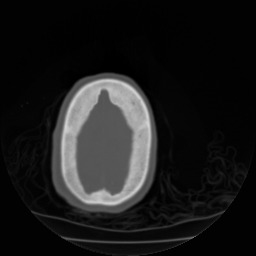
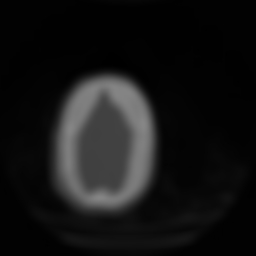
Gauss and sobel test classes

diff --git a/src/imaging/Image.cpp b/src/imaging/Image.cpp
@@ -9,7 +9,8 @@
 
 bool Image::read(const char* filename, int channel_force) {
     int ch = (int)channels;
-	data = stbi_load(filename, &w, &h, &ch, channel_force);
+	size = w * h * ch;
+    data.reset(stbi_load(filename, &w, &h, &ch, channel_force));
 	channels = channel_force == 0 ? channels : channel_force;
 	return data != NULL;
 }
@@ -18,16 +19,16 @@ bool Image::write(const char* filename, ImageType type) {
 	int success;
     switch (type) {
         case ImageType::PNG:
-        success = stbi_write_png(filename, w, h, channels, data, w*channels);
+        success = stbi_write_png(filename, w, h, channels, data.get(), w*channels);
         break;
         case ImageType::BMP:
-        success = stbi_write_bmp(filename, w, h, channels, data);
+        success = stbi_write_bmp(filename, w, h, channels, data.get());
         break;
         case ImageType::JPG:
-        success = stbi_write_jpg(filename, w, h, channels, data, 100);
+        success = stbi_write_jpg(filename, w, h, channels, data.get(), 100);
         break;
         case ImageType::TGA:
-        success = stbi_write_tga(filename, w, h, channels, data);
+        success = stbi_write_tga(filename, w, h, channels, data.get());
         break;
     }
     if(success != 0) {
@@ -151,7 +152,7 @@ const Image& Image::sobel(){
     gy.write("../src/try_y.jpg", ImageType::JPG);*/
     //compute the gradient
     for(size_t i = 0; i < size; i++)
-        data[i] = std::hypot(gx.getData()[i], gy.getData()[i]) / 8.0;
+        data[i] = std::hypot(gx.data[i], gy.data[i]) / 8.0;
 
     return *this;
 
@@ -191,49 +192,6 @@ const void Image::anisotropic_diffusion(Image& dst, int num_iterations, float k)
     }
 
 }
-
-
-const void Image::anisotropic_diffusion(const Image& dest, const double dt, const int lambda, const int interations) const  {
-    //Make temp image
-    Image temp(*this);
-    //temp.sobel();
-    //Precalculate tables (for speed up)
-    double* precal = new double[255];
-    double lambda2 = lambda * lambda;
-    for (int f = 0; f < 255; f++) {
-        precal[f] = -dt * f * lambda2 / (lambda2 + f * f);
-    }
-
-    //Apply the filter
-    for(int ch = 0; ch <= channels; ch++){
-        for (int n = 0; n < interations; n++)
-        {
-        
-            for (int i = 0; i < h; i++)
-                for (int j = 0; j < w; j++) {
-                    
-                    const double current =  temp.data[(i * getWidth() + j) * channels + ch];
-
-                    const int px = (j - 1) < 0 ? 0 : ( j - 1);
-                    const int nx = (j + 1) >= j ? j - 1 : j + 1;
-                    const int py = (i - 1) < 0 ? 0 : i - 1;
-                    const int ny = (i + 1) >= i ? i - 1: i + 1;
-
-                    dest.data[(i * getWidth() + j) * channels + ch] = uint8_t
-                                        ((precal[(int)(current - temp.data[(i * getWidth() + px) * channels + ch])] +
-                                        precal[(int)(current - temp.data[(i * getWidth() + nx) * channels + ch])] +
-                                        precal[(int)(current - temp.data[(py * getWidth() + j) * channels + ch])]  +
-                                        precal[(int)(current - temp.data[(ny * getWidth() + j) * channels + ch])] )+
-                                        temp.data[(i * getWidth() + j) * channels + ch]);
-
-                }
-            }
-    }
-
-    delete[] precal;
-}
-
-
 
 void Image::merge_2d(const std::vector<Image> &images) {
     const int img_size = images.size();

diff --git a/src/imaging/Image.hpp b/src/imaging/Image.hpp
@@ -13,7 +13,7 @@
 #include "../traits/Filtering_traits.hpp"
 #include "../solvers/Ctz.hpp"
 #include "../solvers/MDFFT.hpp"
-
+#include <memory>
 
 enum class ImageType {
     PNG, JPG, BMP, TGA
@@ -31,37 +31,36 @@ class Image {
 
         Image(int w_, int h_, int channels_) : w(w_), h(h_), channels(channels_){
             size = w * h * channels;
-            data = new uint8_t[size];
+            data = std::make_unique<uint8_t[]>(size);
         }
 
-        Image& operator=(const Image& other)  {
+        Image(const Image& img) : w(img.getWidth()), h(img.getHeight()), channels(img.getChannels()), size(img.getSize()), data(std::make_unique<uint8_t[]>(img.getSize())) {
+            std::copy_n(img.data.get(), img.getSize(), data.get());
+        }
+
+        Image& operator=(const Image& other) {
             if (this == &other) return *this;
-            //if(data) delete[] data;
-            size = other.getSize();
-            data = new uint8_t[size];
+            data = std::make_unique<uint8_t[]>(other.getSize());
             w = other.getWidth();
-            h = other.getHeight(); 
+            h = other.getHeight();
             channels = other.getChannels();
-            
-            std::copy(other.getData(), other.getData() + other.getSize(), data);
+            size = other.getSize();
+            std::copy_n(other.data.get(), other.getSize(), data.get());
             return *this;
         }
 
-        Image(const Image& img)  {
-            *this = img;
-        }
-
-        ~Image() {
-            if(data) delete[] data;
-           // data = NULL;
-        }
+        /*~Image() {
+            if (data) {
+                stbi_image_free(data.get());
+            }
+        }*/
 
 
         bool read(const char* filename, int channel_force = 0);
         bool write(const char* filename, ImageType type);
         
         inline const size_t getSize() const {return size; };
-        inline uint8_t* getData() const {return data;};
+        
 
         inline const  int getWidth() const  {return w;} ;
         inline const int getHeight() const {return h;};
@@ -75,8 +74,7 @@ class Image {
 
         const Image& sobel();
 
-        //const void anisotropic_diffusion(Image& dst, int num_iterations, float k) const;
-        const void anisotropic_diffusion(const Image& dest, const double dt, const int lambda, const int interations) const ;
+        
         const void anisotropic_diffusion(Image& dst, int num_iterations, float k) const;
 
         void merge_2d(const std::vector<Image> &images);
@@ -88,9 +86,9 @@ class Image {
 
         void crop_to_center(const int width, const int height, const Image& res);
     private:
-        size_t size;
         int w;
         int h;
-        uint8_t *data;
         uint8_t channels;
+        size_t size;
+        std::unique_ptr<uint8_t[]> data;
 };

diff --git a/src/Test/test.hpp b/src/Test/test.hpp
@@ -1,0 +1,69 @@
+#include "../imaging/Image.hpp"
+#include "../Utilities/Utilities.hpp"
+#include <iostream>
+
+typedef std::vector<Image> ImageVector;
+
+namespace Test{
+
+    class GenericTest {
+        public:
+            GenericTest(ImageVector images_) : images(images_) {};
+
+            virtual void test() = 0;
+
+            void write(const std::string folder) {
+                for(int i = 1; i < 100; i++){
+                    std::string out = "../processed_medical_images/" + folder +  "/cthead-8bit0" + std::to_string(i) + ".jpg";
+                    images[i - 1].write(Tools::getChar(out), ImageType::JPG);
+                }
+            }
+
+        protected:
+            ImageVector images;
+
+            void testFunction(void (Image::* function)()){
+                
+            }
+    };
+
+
+    class GaussTest : public GenericTest{
+        public:
+            GaussTest(ImageVector images_) : GenericTest(images_) {};
+
+            void test() {
+                double start = omp_get_wtime();
+                #pragma omp parallel for schedule(dynamic, 2)
+                for(int i = 1; i < 100; i++){
+                    for(uint8_t c = 0; c < channel_num; c++){
+                        images[i - 1] = images[i - 1].fft_convolve(c, gauss_five_size, gauss_five_size, gauss_std_five, 7, 7);
+                    }
+                    std::cout << "Convolved "<< i <<  std::endl;    
+                }
+                double end = omp_get_wtime();
+                std::cout << "Time taken by fft convolution: "<< end - start << std::endl;
+                
+            }
+    };
+
+    class SobelTest : public GenericTest{
+        public:
+            SobelTest(ImageVector images_) : GenericTest(images_) {};
+
+            void test() {
+                double start = omp_get_wtime();
+                #pragma omp parallel for schedule(dynamic, 2)
+                for(int i = 1; i < 100; i++){
+                    for(uint8_t c = 0; c < channel_num; c++){
+                        images[i - 1] = images[i - 1].sobel();
+                    }
+                    std::cout << "Sobel "<< i <<  std::endl;    
+                }
+                double end = omp_get_wtime();
+                std::cout << "Time taken by sobel: "<< end - start << std::endl;
+                
+            }
+            
+    };
+}

diff --git a/src/main.cpp b/src/main.cpp
@@ -1,50 +1,40 @@
+#include "Test/test.hpp"
 #include "solvers/FFT.hpp"
 #include "Utilities/CSV_Reader.hpp"
-#include "imaging/Image.hpp"
 #include "traits/Parallel_configuration.hpp"
-#include "Utilities/Utilities.hpp"
+
 
 int main() {
     using Solver::FFT;
+    using namespace Test;
     omp_set_nested(nesting);
     omp_set_num_threads(n_threads);
 
 
 
     std::vector<Image> images;
+    
     //read and populate images vector
     for(int i = 1; i < 100; i++){
         std::string s = "../medical_images/stanford/cthead-8bit0" + std::to_string(i) + ".jpg";
         Image img(Tools::getChar(s), 2);
         images.push_back(img);
     }
-
-
-    omp_set_nested(1);
-    double start = omp_get_wtime();
-    //#pragma omp parallel for schedule(dynamic, 2)
-    for(int i = 1; i < 5; i++){
-        #pragma omp parallel for schedule(dynamic, 2)
-        for(uint8_t c = 0; c < channel_num; c++){
-            images[i - 1] = images[i - 1].fft_convolve(c, gauss_five_size, gauss_five_size, gauss_std_five, 7, 7);
-        }
-        std::cout << "Convolved "<< i <<  std::endl;    
-    }
-    double end = omp_get_wtime();
-    std::cout << "Time taken by fft convolution: "<< end - start << std::endl;
-    for(int i = 1; i < 100; i++){
-        std::string out = "../processed_medical_images/gaussed/cthead-8bit0" + std::to_string(i) + ".jpg";
-        images[i - 1].write(Tools::getChar(out), ImageType::JPG);
-    }
-
-    //Image test("../medical_images/stanford/cthead-8bit075.jpg");
-    //Image ref_image("../medical_images/stanford/cthead-8bit075.jpg");
-    
+    std::vector<Image> gaussed_images(images);
+    std::vector<Image> ku(images);
+    std::vector<Image> sob(images);
+    std::vector<Image> aniso(images);
 
     
-    //ref_image.diff(test);
-    //ref_image.write("../processed_medical_images/diff.jpg", ImageType::JPG);
-    //test.write("../processed_medical_images/out_blur_fft.jpg", ImageType::JPG);
+    GenericTest* gauss_test = new GaussTest(gaussed_images);
+    gauss_test->test();
+    gauss_test->write("gaussed");
+
+
+    GenericTest* sobel_test = new SobelTest(sob);
+    sobel_test->test();
+    sobel_test->write("sobel");
+
 
     std::cout << "_________________________________________________________________________________________" << std::endl;
 

diff --git a/src/types/MyComplexArray.hpp b/src/types/MyComplexArray.hpp
@@ -21,22 +21,8 @@ class MyComplexArray : public ComplexArray {
         // Copy constructor
         MyComplexArray(const MyComplexArray& other) : ComplexArray(other) {}
 
-        operator ComplexArray() const { return ComplexArray(*this); }
+        //operator ComplexArray() const { return ComplexArray(*this); }
 
-        void operator*=(const MyComplexArray& other) {
-            for(size_t i = 0; i< this->size(); i++){
-                (*this)[i] = Complex(((*this)[i].real() * other[i].real()), ((*this)[i].imag() * other[i].imag()));
-            }
-        }
-
-
-        MyComplexArray& operator*(const MyComplexArray& other) {
-            MyComplexArray ret(other.size());
-            for(size_t i = 0; i< this->size(); i++){
-                ret[i] = Complex(((*this)[i].real() * other[i].real()), ((*this)[i].imag() * other[i].imag()));
-            }
-            return ret;
-        }
 
         MyComplexArray& apply() {
             for (size_t i = 0; i < this->size(); i++) {

diff --git a/src/traits/FFT_Traits.hpp b/src/traits/FFT_Traits.hpp
@@ -12,6 +12,7 @@
 #include <cmath>
 #include <valarray>
 #include "../types/MyComplexArray.hpp"
+
 typedef std::complex<double> Complex;
 typedef std::valarray<Complex> ComplexArray;
 constexpr auto epsilon = std::numeric_limits<double>::epsilon();

diff --git a/README.md b/README.md
@@ -8,7 +8,7 @@
         - Anisotropic diffusion 
         - Kuwahara
     To do:
-        - use unique_ptr instead of raw pointer
-        - rewrite clear tests and main
-        - use FFT 1D instead of 2D for convolution
+        - Rewrite clear tests and main
         - Rebuild 3d volume 
+        - Doc
+        - Report pdf
